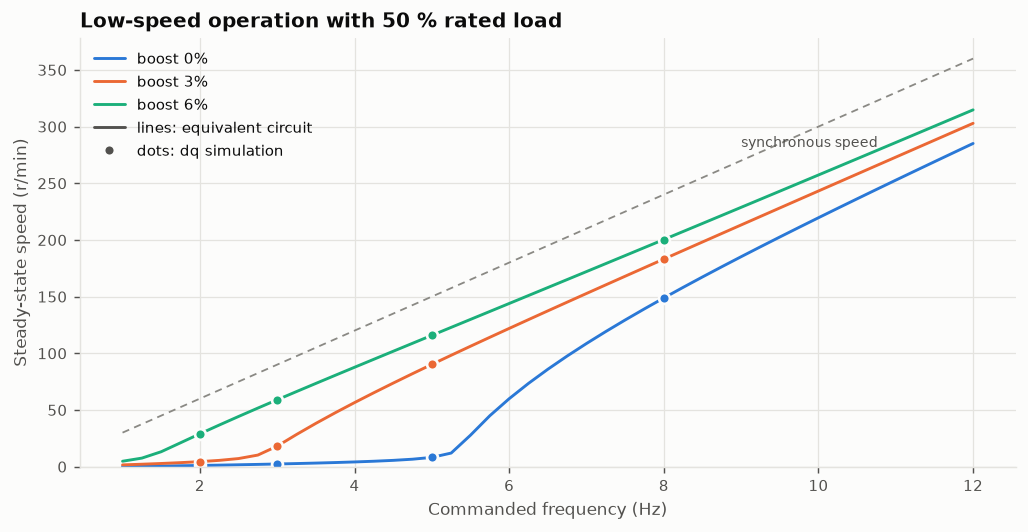
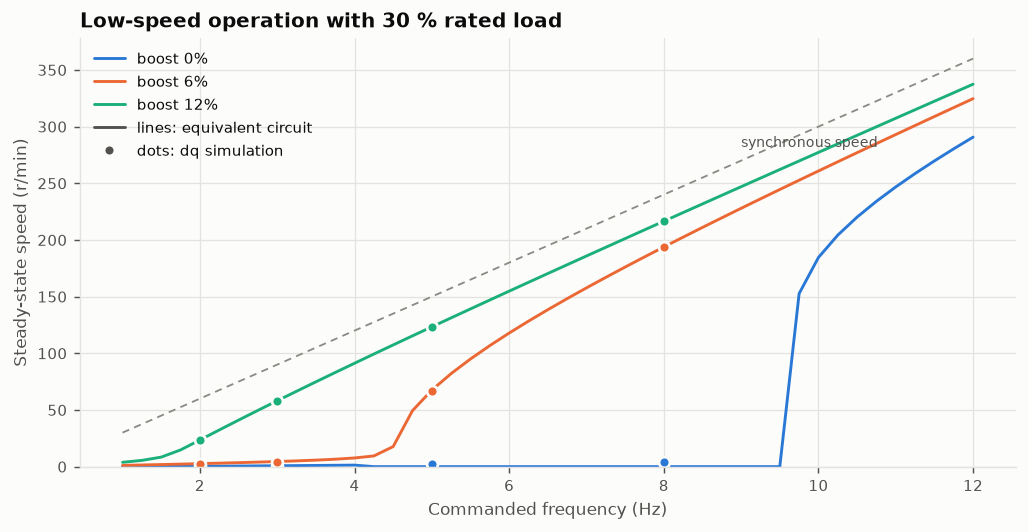
feat(experiments): label results with the configured motor and regenerate
Claude-Session: https://claude.ai/code/session_01X1j4Yh2tnHGYZTcFirZcwC

diff --git a/src/vfdsim/experiments/phase1.py b/src/vfdsim/experiments/phase1.py
@@ -108,9 +108,9 @@ def rated_point_and_torque_speed(
     }
     report.metrics["rated_point"] = rated
     report.markdown.append(
-        "#### Assumed motor: rated operating point (equivalent circuit, 208 V / 60 Hz)\n\n"
+        f"#### Motor {m.name}: rated operating point (equivalent circuit, 208 V / 60 Hz)\n\n"
         + _table(
-            ["Quantity", "Value", "Nameplate (assumed)"],
+            ["Quantity", "Value", f"Rating plate ({m.provenance.get('nameplate', 'unknown')})"],
             [
                 [
                     "Speed",
@@ -260,7 +260,7 @@ def vf_family(cfg: DriveConfig, report: ExperimentReport, img_dir: Path) -> None
     ax2.set_xlabel("Speed (r/min)")
     ax2.set_ylabel("Torque (N·m)")
     ax2.set_title("Steady-state torque–speed curves under V/f")
-    ax2.set_ylim(0, 3.6)
+    ax2.set_ylim(0, 1.3 * max(c["breakdown_torque_nm"] for c in family.values()))
     ax2.legend(loc="upper right", ncols=4)
     fig.tight_layout()
     report.figures.append(save(fig, img_dir / "phase1_vf_family.png"))
@@ -455,16 +455,16 @@ def slip_compensation(cfg: DriveConfig, report: ExperimentReport, img_dir: Path)
 
 # ------------------------------------------------------------------------ E6
 def boost(cfg: DriveConfig, report: ExperimentReport, img_dir: Path, quick: bool) -> None:
-    """Low-frequency operation with 50 % rated load for several boost levels."""
+    """Low-frequency operation with 30 % rated load for several boost levels."""
     m = cfg.motor
     ec = EquivalentCircuit(m)
-    t_load = 0.5 * m.nameplate.rated_torque_nm
+    t_load = 0.3 * m.nameplate.rated_torque_nm
     coul = 0.0
 
     def opposing(w: float) -> float:
         return t_load * math.tanh(w / 0.5) + m.viscous_friction * w + coul
 
-    boosts = (0.0, 0.03, 0.06)
+    boosts = (0.0, 0.06, 0.12)
     f_axis = np.linspace(1.0, 12.0, 45)
     f_sim = (2.0, 4.0, 8.0) if quick else (2.0, 3.0, 5.0, 8.0)
     apply_style()
@@ -503,7 +503,7 @@ def boost(cfg: DriveConfig, report: ExperimentReport, img_dir: Path, quick: bool
         )
     ax.set_xlabel("Commanded frequency (Hz)")
     ax.set_ylabel("Steady-state speed (r/min)")
-    ax.set_title("Low-speed operation with 50 % rated load")
+    ax.set_title("Low-speed operation with 30 % rated load")
     ax.set_ylim(bottom=0)
     ax.plot([], [], color=TEXT_SECONDARY, label="lines: equivalent circuit")
     ax.plot([], [], **marker_kwargs(TEXT_SECONDARY), label="dots: dq simulation")
@@ -512,7 +512,7 @@ def boost(cfg: DriveConfig, report: ExperimentReport, img_dir: Path, quick: bool
     report.figures.append(save(fig, img_dir / "phase1_boost.png"))
     report.metrics["boost"] = metrics
     report.markdown.append(
-        "#### Voltage boost at low frequency (50 % rated load, slip compensation off)\n\n"
+        "#### Voltage boost at low frequency (30 % rated load, slip compensation off)\n\n"
         + _table(
             ["Boost"]
             + [f"Speed at {fx:.0f} Hz (sync {30 * fx:.0f})" for fx in f_sim]
@@ -520,9 +520,8 @@ def boost(cfg: DriveConfig, report: ExperimentReport, img_dir: Path, quick: bool
             table_rows,
         )
         + "\n\nSpeeds in r/min from the dq simulation. Without boost the stator resistance"
-        " drop leaves too little flux and the motor stalls (speed ≈ 0). The rated flux is about"
-        f" {m.rated_flux_linkage():.3f} Wb (V/ω at the rating plate): at very low frequency the"
-        " boost over-fluxes the unsaturated model."
+        " drop leaves too little flux and the motor stalls (speed ≈ 0). For reference, the"
+        f" rated flux is about {m.rated_flux_linkage():.3f} Wb (V/ω at the rating plate)."
     )
 
 

diff --git a/docs/results/phase1.md b/docs/results/phase1.md
@@ -2,81 +2,81 @@
 
 | Check | Result |
 |---|---|
-| No-load speed vs 120·f/P (45 Hz, frictionless) | 1,350.000 vs 1,350.000 r/min (error 6.6e-09) |
-| dq torque vs equivalent circuit (12 locked-speed points) | max abs(ΔT) = 1.3e-05 N·m |
-| dq current vs equivalent circuit | max relative error 2.0e-04 |
-| Steady-state power balance (45 Hz, rated load) | relative residual -8.6e-08 |
-| Energy conservation over a 4.5 s start + load step | relative residual -1.6e-07 |
+| No-load speed vs 120·f/P (45 Hz, frictionless) | 1,350.000 vs 1,350.000 r/min (error 8.8e-09) |
+| dq torque vs equivalent circuit (12 locked-speed points) | max abs(ΔT) = 2.8e-07 N·m |
+| dq current vs equivalent circuit | max relative error 1.9e-04 |
+| Steady-state power balance (45 Hz, rated load) | relative residual -2.6e-07 |
+| Energy conservation over a 4.5 s start + load step | relative residual -4.7e-07 |
 
-#### Assumed motor: rated operating point (equivalent circuit, 208 V / 60 Hz)
+#### Motor LabVolt-8221-22-200W-4p-208V-60Hz: rated operating point (equivalent circuit, 208 V / 60 Hz)
 
-| Quantity | Value | Nameplate (assumed) |
+| Quantity | Value | Rating plate (nameplate) |
 |---|---|---|
-| Speed | 1,670.2 r/min | 1,670 r/min |
-| Slip | 7.21 % | 7.22 % |
-| Shaft power | 175.0 W | 175 W |
-| Line current | 1.103 A | 1.2 A |
-| Power factor | 0.553 | - |
-| Efficiency (no core loss) | 79.6 % | - |
-| No-load current | 0.896 A | - |
-| Breakdown torque / slip | 2.935 N·m (2.93× rated) at s = 0.457 | - |
-| Locked-rotor current / torque | 3.90 A / 2.322 N·m | - |
+| Speed | 1,685.0 r/min | 1,685 r/min |
+| Slip | 6.39 % | 6.39 % |
+| Shaft power | 200.0 W | 200 W |
+| Line current | 1.140 A | 1.14 A |
+| Power factor | 0.730 | - |
+| Efficiency (no core loss) | 66.7 % | - |
+| No-load current | 0.925 A | - |
+| Breakdown torque / slip | 2.267 N·m (2.00× rated) at s = 0.320 | - |
+| Locked-rotor current / torque | 3.73 A / 1.587 N·m | - |
 
-#### Torque capability under V/f (equivalent circuit, 6% boost, 285 V bus, SPWM)
+#### Torque capability under V/f (equivalent circuit, 12% boost, 285 V bus, SPWM)
 
 | Frequency | Applied line voltage | Breakdown torque | vs rated |
 |---|---|---|---|
-| 15 Hz | 61.4 V | 2.123 N·m | 2.12× |
-| 30 Hz | 110.2 V | 2.602 N·m | 2.60× |
-| 45 Hz | 159.1 V | 2.819 N·m | 2.82× |
-| 60 Hz | 174.5 V | 2.066 N·m | 2.07× |
+| 15 Hz | 70.7 V | 1.080 N·m | 0.95× |
+| 30 Hz | 116.5 V | 1.528 N·m | 1.35× |
+| 45 Hz | 162.2 V | 1.924 N·m | 1.70× |
+| 60 Hz | 174.5 V | 1.596 N·m | 1.41× |
 
-The SPWM voltage limit is reached at 49.75 Hz: above it the drive can no longer hold V/f constant and the machine is under-fluxed.
+The SPWM voltage limit is reached at 49.25 Hz: above it the drive can no longer hold V/f constant and the machine is under-fluxed.
 
 #### V/f steady state at rated load torque
 
 | f / reference (r/min) | Applied V (peak, phase) | Stator flux | Speed, no slip comp. (slip) | Current (dq / eq. circuit) | Speed with slip comp. (f_out) |
 |---|---|---|---|---|---|
-| 15 Hz / 450 | 50.1 V | 0.468 Wb | 341.1 (24.21 %) | 1.118 / 1.118 A | 467.3 (19.37 Hz) |
-| 30 Hz / 900 | 90.0 V | 0.447 Wb | 779.1 (13.43 %) | 1.104 / 1.104 A | 909.3 (34.40 Hz) |
-| 45 Hz / 1350 | 129.9 V | 0.439 Wb | 1,223.7 (9.36 %) | 1.102 / 1.102 A | 1,355.6 (49.44 Hz) |
-| 60 Hz / 1800 | 142.5 V | 0.360 Wb | 1,604.7 (10.85 %) | 1.102 / 1.101 A | 1,604.7 (60.00 Hz) |
+| 15 Hz / 450 | 57.7 V | 0.194 Wb | 5.4 (98.80 %) | 1.455 / 1.455 A | 6.4 (18.34 Hz) |
+| 30 Hz / 900 | 95.1 V | 0.374 Wb | 776.0 (13.78 %) | 1.134 / 1.134 A | 895.7 (33.89 Hz) |
+| 45 Hz / 1350 | 132.5 V | 0.387 Wb | 1,233.3 (8.64 %) | 1.136 / 1.136 A | 1,351.4 (48.91 Hz) |
+| 60 Hz / 1800 | 142.5 V | 0.303 Wb | 1,602.8 (10.95 %) | 1.222 / 1.221 A | 1,602.8 (60.00 Hz) |
 
 #### Power balance at 45 Hz, rated load (averages over 0.5 s of steady state)
 
 | Term | Power |
 |---|---|
-| Electrical input P_in | 170.06 W |
-| Stator copper loss | 25.51 W |
-| Rotor copper loss | 13.53 W |
-| Motor bearing friction | 2.79 W |
-| Delivered to the load | 128.23 W |
-| Residual P_in − Σ | -1.5e-05 W (-8.6e-08 of P_in) |
-| Efficiency (no core loss) | 75.4 % |
+| Electrical input P_in | 243.30 W |
+| Stator copper loss | 79.96 W |
+| Rotor copper loss | 14.12 W |
+| Motor bearing friction | 2.84 W |
+| Delivered to the load | 146.39 W |
+| Residual P_in − Σ | -6.4e-05 W (-2.6e-07 of P_in) |
+| Efficiency (no core loss) | 60.2 % |
 
 #### V/f start to 1500 r/min (30 % rated load, +70 % load step at 3 s, slip compensation on)
 
 | Metric | Value |
 |---|---|
-| Time to 95 % of reference speed | 1.577 s |
-| Peak phase current | 2.284 A |
-| Speed before / after load step | 1,503.9 / 1,499.3 r/min |
-| Minimum speed after the step | 1,431.1 r/min |
-| Energy balance residual (electrical / mechanical) | -1.6e-07 / -9.3e-11 (relative) |
+| Time to 95 % of reference speed | 1.572 s |
+| Peak phase current | 1.719 A |
+| Speed before / after load step | 1,507.1 / 1,486.1 r/min |
+| Minimum speed after the step | 1,432.5 r/min |
+| Energy balance residual (electrical / mechanical) | -4.7e-07 / -1.2e-10 (relative) |
 
 #### Slip compensation at 900 r/min (30 Hz)
 
 | Slip compensation | Speed at 20 % load (error) | Speed at 100 % load (error) |
 |---|---|---|
-| off | 877.1 r/min (-2.54 %) | 779.1 r/min (-13.43 %) |
-| on | 905.0 r/min (0.55 %) | 909.3 r/min (1.03 %) |
+| off | 883.2 r/min (-1.87 %) | 776.0 r/min (-13.78 %) |
+| on | 907.6 r/min (0.85 %) | 895.7 r/min (-0.48 %) |
 
-#### Voltage boost at low frequency (50 % rated load, slip compensation off)
+#### Voltage boost at low frequency (30 % rated load, slip compensation off)
 
 | Boost | Speed at 2 Hz (sync 60) | Speed at 3 Hz (sync 90) | Speed at 5 Hz (sync 150) | Speed at 8 Hz (sync 240) | Stator flux at 2 Hz |
 |---|---|---|---|---|---|
-| 0% | 1.0 | 2.3 | 8.2 | 148.8 | 0.207 Wb |
-| 3% | 4.4 | 18.1 | 90.2 | 183.1 | 0.392 Wb |
-| 6% | 29.0 | 59.0 | 115.8 | 200.4 | 0.614 Wb |
+| 0% | 0.3 | 0.8 | 2.0 | 4.4 | 0.076 Wb |
+| 6% | 2.6 | 4.5 | 67.0 | 193.8 | 0.211 Wb |
+| 12% | 23.5 | 58.1 | 123.4 | 216.5 | 0.373 Wb |
 
-Speeds in r/min from the dq simulation. Without boost the stator resistance drop leaves too little flux and the motor stalls (speed ≈ 0). The rated flux is about 0.450 Wb (V/ω at the rating plate): at very low frequency the boost over-fluxes the unsaturated model.
+Speeds in r/min from the dq simulation. Without boost the stator resistance drop leaves too little flux and the motor stalls (speed ≈ 0). For reference, the rated flux is about 0.450 Wb (V/ω at the rating plate).

diff --git a/docs/results/labvolt_fit.md b/docs/results/labvolt_fit.md
@@ -1,0 +1,16 @@
+#### LabVolt 8221-22: equivalent circuit fitted to the rating plate
+
+| Parameter | Value |
+|---|---|
+| R_s | 20.650 Ω |
+| R_r | 8.194 Ω |
+| L_ls = L_lr | 21.55 mH |
+| L_m | 318.6 mH |
+| Breakdown torque | 2.267 N·m at s = 0.320 (assumed 2.0× rated) |
+
+| Mode | Power (plate / model) | PF (plate / model) | Current (plate / model) |
+|---|---|---|---|
+| Motor (1685 r/min) | 200 W / 200.0 W | 0.73 / 0.730 | 1.14 A / 1.140 A |
+| Generator (1900 r/min) | 200 W / 199.6 W | 0.47 / 0.402 | 1.18 A / 1.378 A |
+
+The motor point is fitted exactly. The generator point is a validation: the model delivers the plate power but with a lower power factor and higher current, because it has no iron-loss branch and no saturation.
